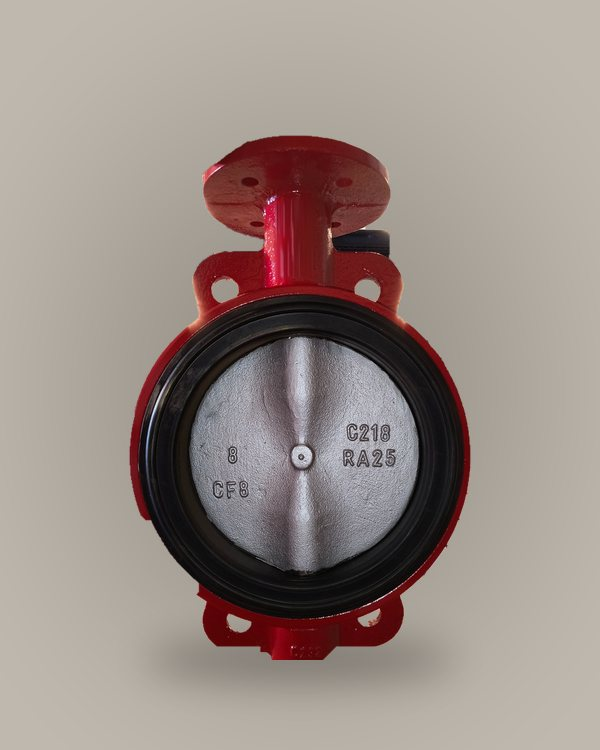
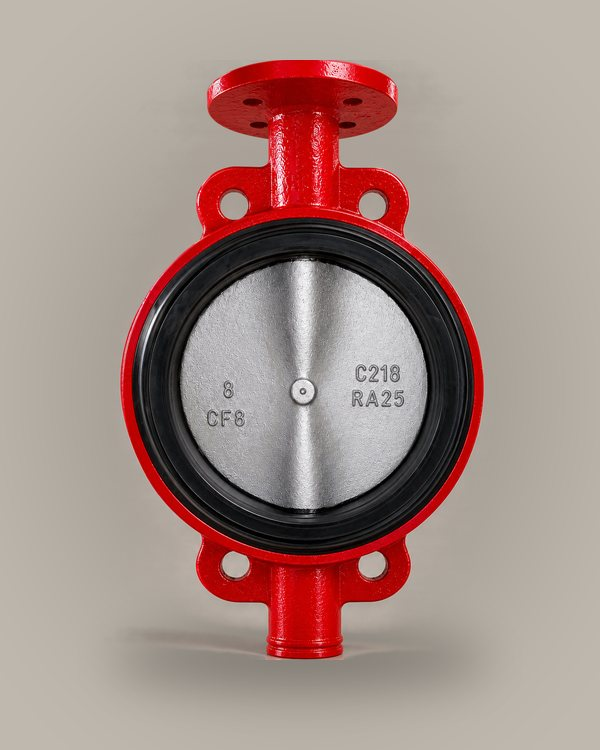
feat: concêntrica em render de estúdio (padrão da bi-excêntrica)
Claude-Session: https://claude.ai/code/session_013ZMvq2bHW9JtzL1E6y2RJy

diff --git a/index.html b/index.html
@@ -10,8 +10,8 @@
   <link rel="preconnect" href="https://fonts.googleapis.com" />
   <link rel="preconnect" href="https://fonts.gstatic.com" crossorigin />
   <link href="https://fonts.googleapis.com/css2?family=Barlow+Condensed:wght@500;600;700&family=Barlow:wght@400;500;600&display=swap" rel="stylesheet" />
-  <link rel="stylesheet" href="css/style.css?v=20261101g" />
-  <link rel="stylesheet" href="css/movimento.css?v=20261101g" />
+  <link rel="stylesheet" href="css/style.css?v=20261101h" />
+  <link rel="stylesheet" href="css/movimento.css?v=20261101h" />
   <script>
     // Se main.js não carregar em 3 s, devolve o conteúdo sem as entradas animadas.
     document.documentElement.classList.add("js");
@@ -115,7 +115,7 @@
           </div>
         </article>
         <article class="produto reveal" id="item-concentrica" data-produto="Válvula Borboleta Concêntrica">
-          <picture class="produto-img"><source srcset="img/estudio/concentrica.webp" type="image/webp" /><img src="img/estudio/concentrica.jpg" alt="Válvula borboleta concêntrica wafer vermelha com sede em elastômero preto e disco em inox CF8" width="600" height="750" loading="lazy" /></picture>
+          <picture class="produto-img"><source srcset="img/estudio/concentrica.webp" type="image/webp" /><img src="img/estudio/concentrica.jpg" alt="Válvula borboleta concêntrica wafer vermelha com sede em elastômero preto e disco em inox CF8, em render de estúdio" width="600" height="750" loading="lazy" /></picture>
           <div class="produto-info">
             <h3>Borboleta concêntrica</h3>
             <ul class="produto-chaves"><li>2" a 40"</li><li>API 609</li><li>wafer e semi-lug</li></ul>
@@ -735,11 +735,11 @@
     <svg viewBox="0 0 24 24" width="28" height="28" aria-hidden="true"><path fill="currentColor" d="M12 2a10 10 0 0 0-8.6 15.1L2 22l5-1.3A10 10 0 1 0 12 2Zm0 18.2a8.2 8.2 0 0 1-4.2-1.2l-.3-.2-3 .8.8-2.9-.2-.3A8.2 8.2 0 1 1 12 20.2Zm4.5-6.1c-.2-.1-1.5-.7-1.7-.8s-.4-.1-.6.1-.6.8-.8 1-.3.2-.5 0a6.7 6.7 0 0 1-3.3-2.9c-.3-.4.2-.4.6-1.3a.4.4 0 0 0 0-.4l-.8-1.9c-.2-.5-.4-.4-.6-.4h-.5a1 1 0 0 0-.7.3 3 3 0 0 0-.9 2.2 5.2 5.2 0 0 0 1.1 2.7 11.8 11.8 0 0 0 4.5 4c1.7.7 2.3.8 3.2.6a2.7 2.7 0 0 0 1.8-1.3 2.2 2.2 0 0 0 .2-1.2c-.1-.2-.3-.3-.6-.4Z"/></svg>
   </a>
 
-  <script src="js/engenharia.js?v=20261101g"></script>
-  <script src="js/whatsapp.js?v=20261101g"></script>
-  <script src="js/interativo.js?v=20261101g"></script>
-  <script src="js/main.js?v=20261101g"></script>
+  <script src="js/engenharia.js?v=20261101h"></script>
+  <script src="js/whatsapp.js?v=20261101h"></script>
+  <script src="js/interativo.js?v=20261101h"></script>
+  <script src="js/main.js?v=20261101h"></script>
   <script src="js/vendor/motion-14.3.0.min.js"></script>
-  <script src="js/movimento.js?v=20261101g"></script>
+  <script src="js/movimento.js?v=20261101h"></script>
 </body>
 </html>

diff --git a/scripts/estudio.py b/scripts/estudio.py
@@ -65,14 +65,14 @@ def compor(produto, w=600, h=750, altura=0.74):
     return bg
 
 
-def recortar_render(render_path):
+def recortar_render(render_path, caixa=(0, 110, 704, 1090)):
     """Separa a bi-excêntrica do fundo do render.
 
     O fundo do render é um degradê suave: para cada linha, estima-se a cor do fundo pelas
     bordas (interpolando entre esquerda e direita) e fica opaco só o que difere dela.
     O reflexo no chão é cortado para a sombra do estúdio assumir esse papel.
     """
-    src = Image.open(render_path).convert("RGB").crop((0, 110, 704, 1090))
+    src = Image.open(render_path).convert("RGB").crop(caixa)
     w, h = src.size
     px = src.load()
     alfa = Image.new("L", (w, h), 0)
@@ -102,8 +102,12 @@ def render_no_estudio(render_path, w, h):
 
 # fotos reais já recortadas do fundo (PNG com transparência), por nome de saída
 FOTOS = {
-    "concentrica": "concentrica.png",
     "retencao": "retencao.png",
+}
+
+# renders feitos no ChatGPT no padrão da bi-excêntrica: arquivo -> (nome, caixa sem o reflexo)
+RENDERS = {
+    "render-concentrica.png": ("concentrica", (0, 76, 1024, 1404)),  # acima de 76 só há fundo
 }
 
 
@@ -121,6 +125,9 @@ def main(midia, render):
     for nome, arquivo in FOTOS.items():
         if (recortes / arquivo).exists():
             salvar(compor(Image.open(recortes / arquivo).convert("RGBA"), altura=0.7), nome)
+    for arquivo, (nome, caixa) in RENDERS.items():
+        if (recortes / arquivo).exists():
+            salvar(compor(recortar_render(recortes / arquivo, caixa), altura=0.8), nome)
     salvar(render_no_estudio(render, 600, 750), "bi-excentrica")
     salvar(render_no_estudio(render, 720, 1080), "bi-excentrica-alta")
 
